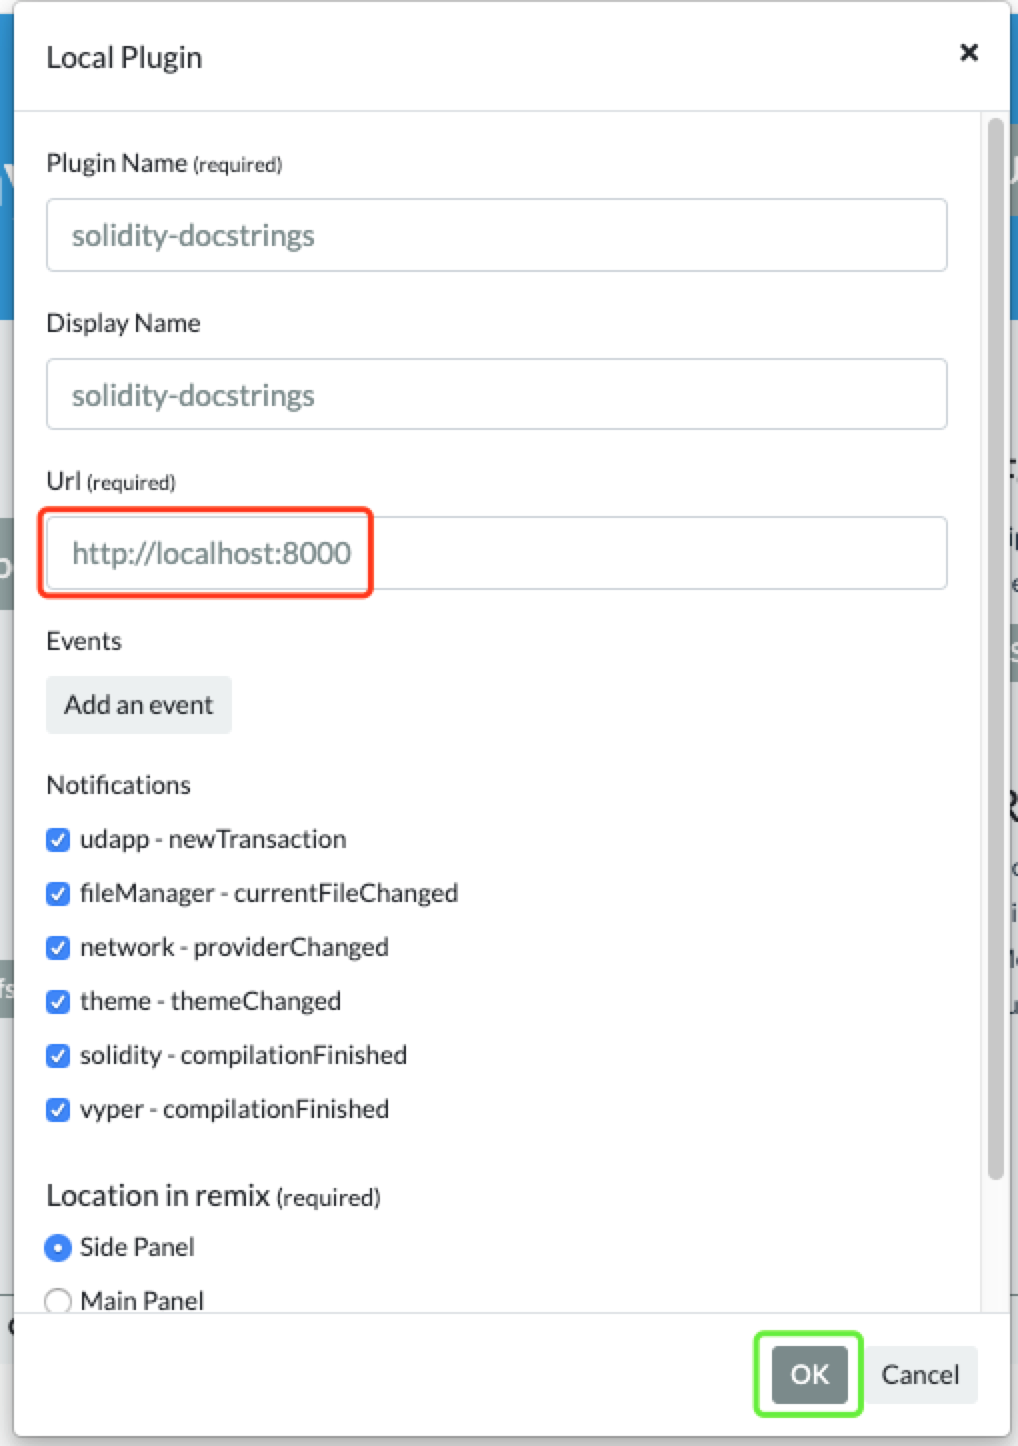
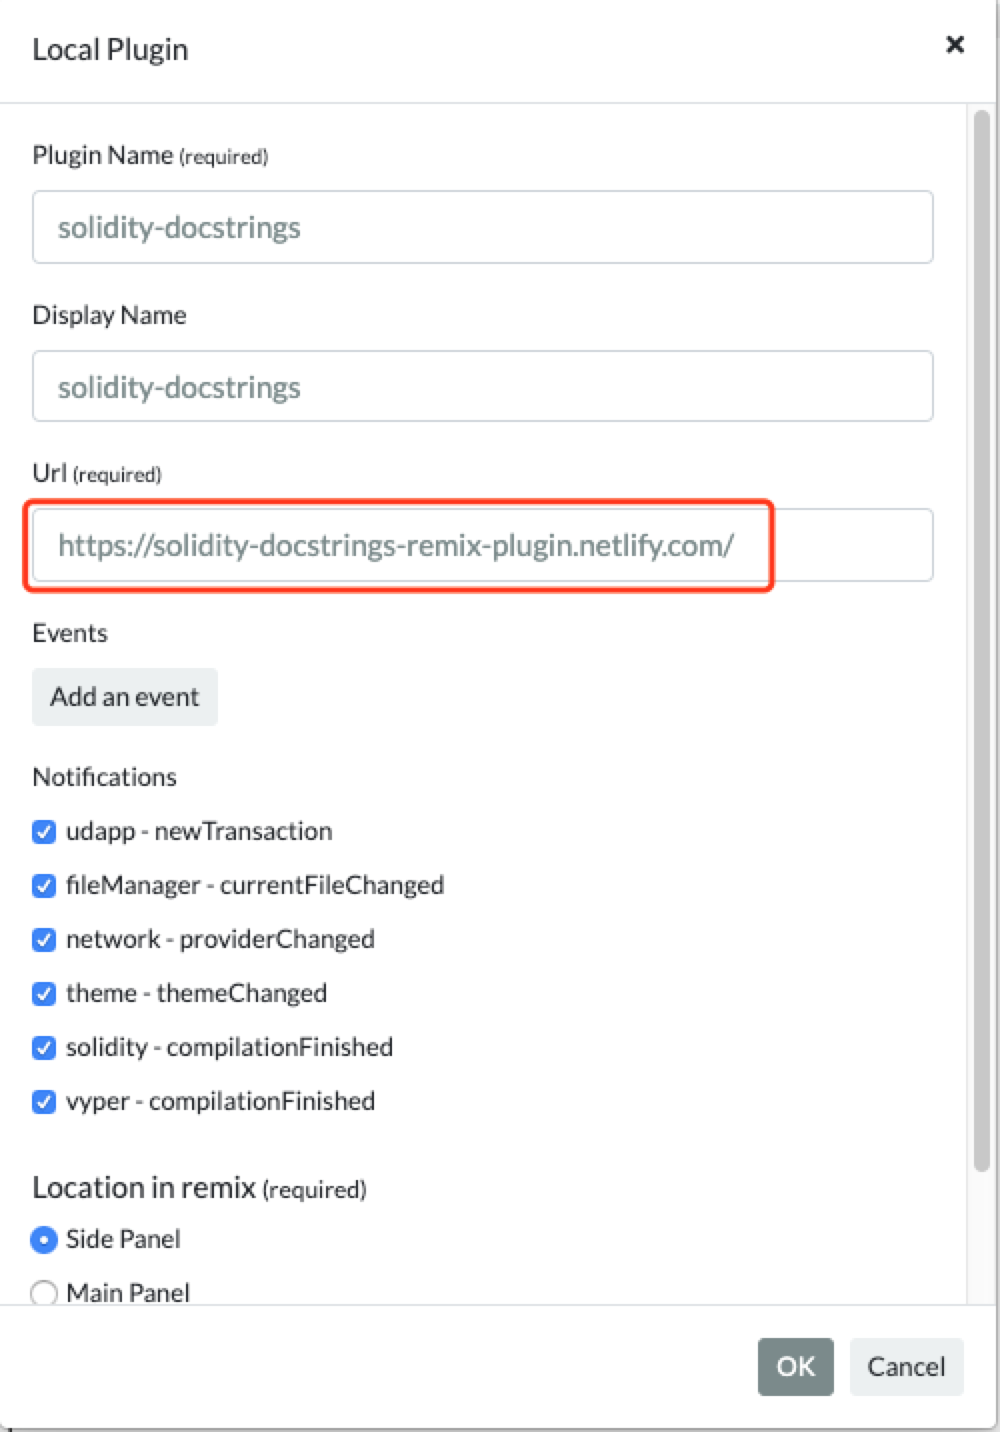
publish to netlify. you can connect from the url

diff --git a/README.md b/README.md
@@ -1,35 +1,22 @@
 # Solidity Docstrings Remix-plugin
 
 This plugin is developed for [Ethereum Remix online IDE](http://remix.ethereum.org/#optimize=false&evmVersion=null).<br>
-There is no way to publish it yet. You can only use it locally.<br>
+You can get connect from this url https://solidity-docstrings-remix-plugin.netlify.com/ <br>
 Final effect:
 <br>
 <img src="images/final_effect.png" width="90%" >
 
-# How to Use
+# How connect your Remix to the Plugin ?
 
-1. install locally
-
-```
-npm install
-```
-
-2. run it locally on port:8000
-
-```
-npm start
-```
-
-3. connect your Remix IDE to the Plugin<br>
-   step 1 click Button<br>
-   <img src="images/step1.png" width="60%" ><br><br>
-   step 2 connect to local plugin<br>
-   <img src="images/step2.png" width="60%" ><br><br>
-   step 3 give it a name and port<br>
-   <img src="images/step3.png" width="60%" ><br><br>
-   step 4 select a solidity file<br>
-   <img src="images/step4.png" width="60%" ><br><br>
-   step 5 click the smile face on side panel<br>
-   <img src="images/step5.png" width="60%" ><br><br>
-   step 6 click any button in the plugin and play with it<br>
-   <img src="images/step6.png" width="60%" ><br><br>
+step 1 click Button<br>
+<img src="images/step1.png" width="60%" ><br><br>
+step 2 connect to local plugin<br>
+<img src="images/step2.png" width="60%" ><br><br>
+step 3 give it a name and port(url)<br>
+<img src="images/step3.png" width="60%" ><br><br>
+step 4 select a solidity file<br>
+<img src="images/step4.png" width="60%" ><br><br>
+step 5 click the smile face on side panel<br>
+<img src="images/step5.png" width="60%" ><br><br>
+step 6 click any button in the plugin and play with it<br>
+<img src="images/step6.png" width="60%" ><br><br>
